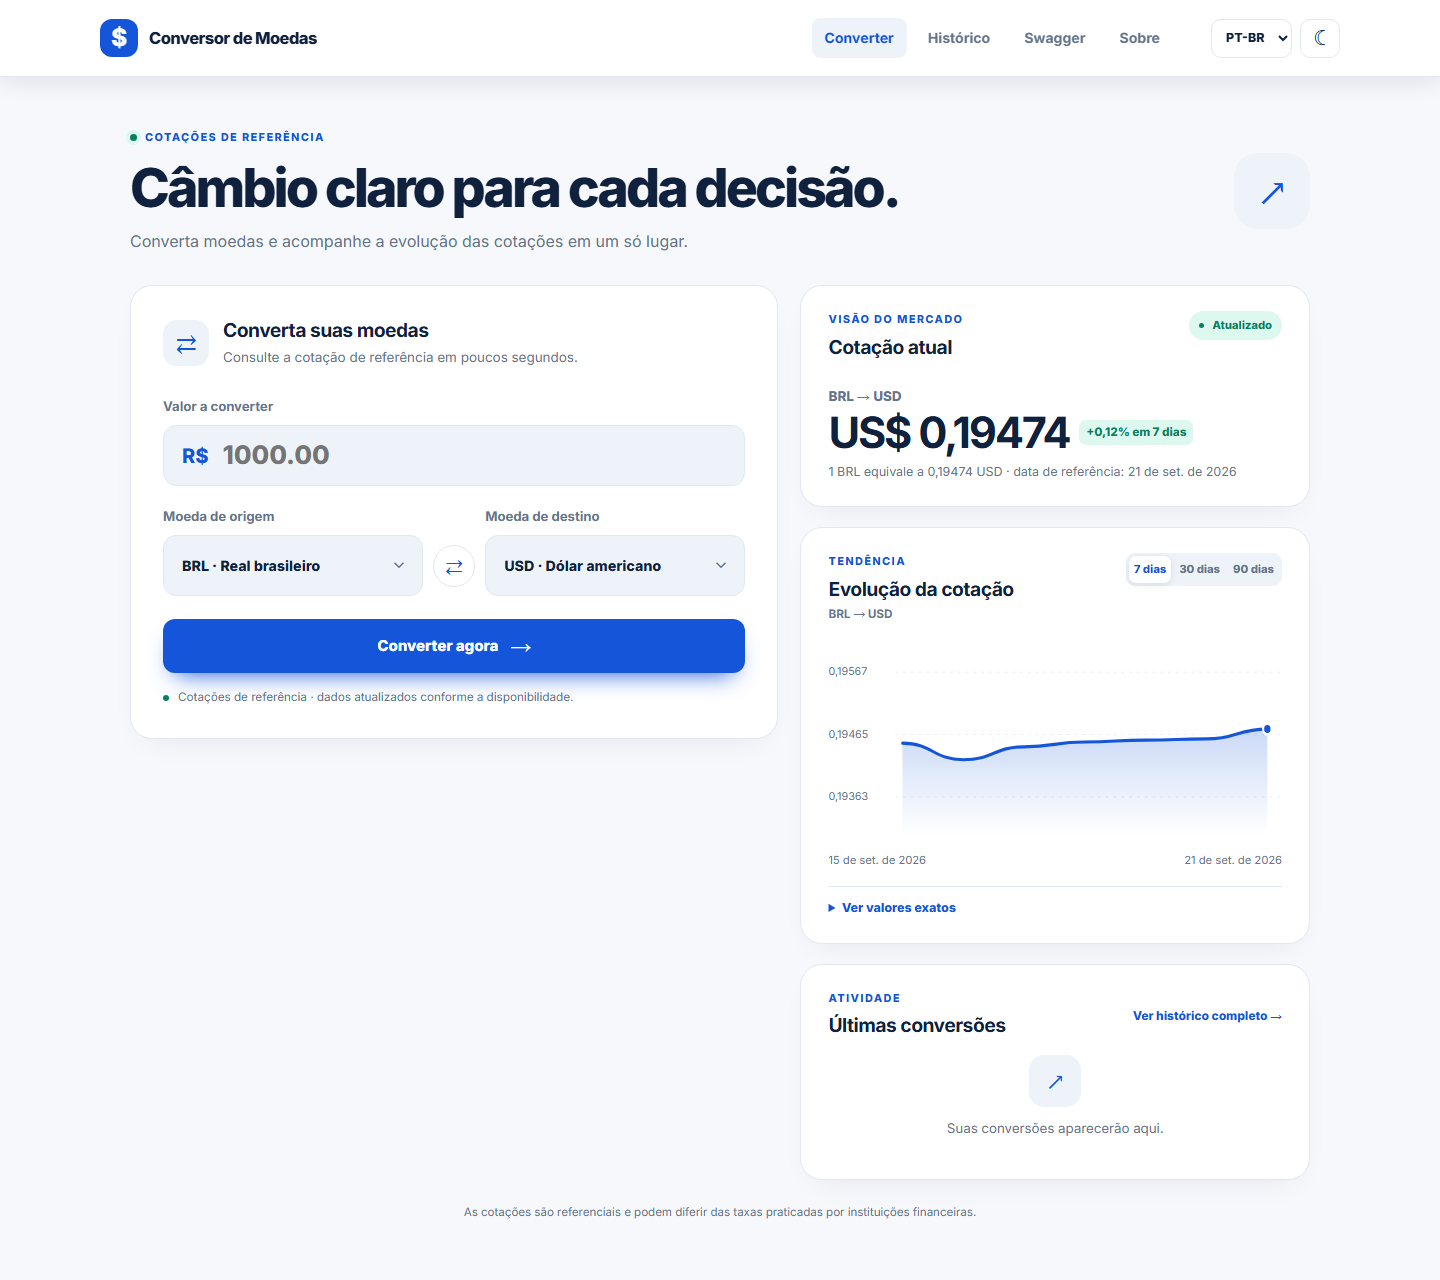
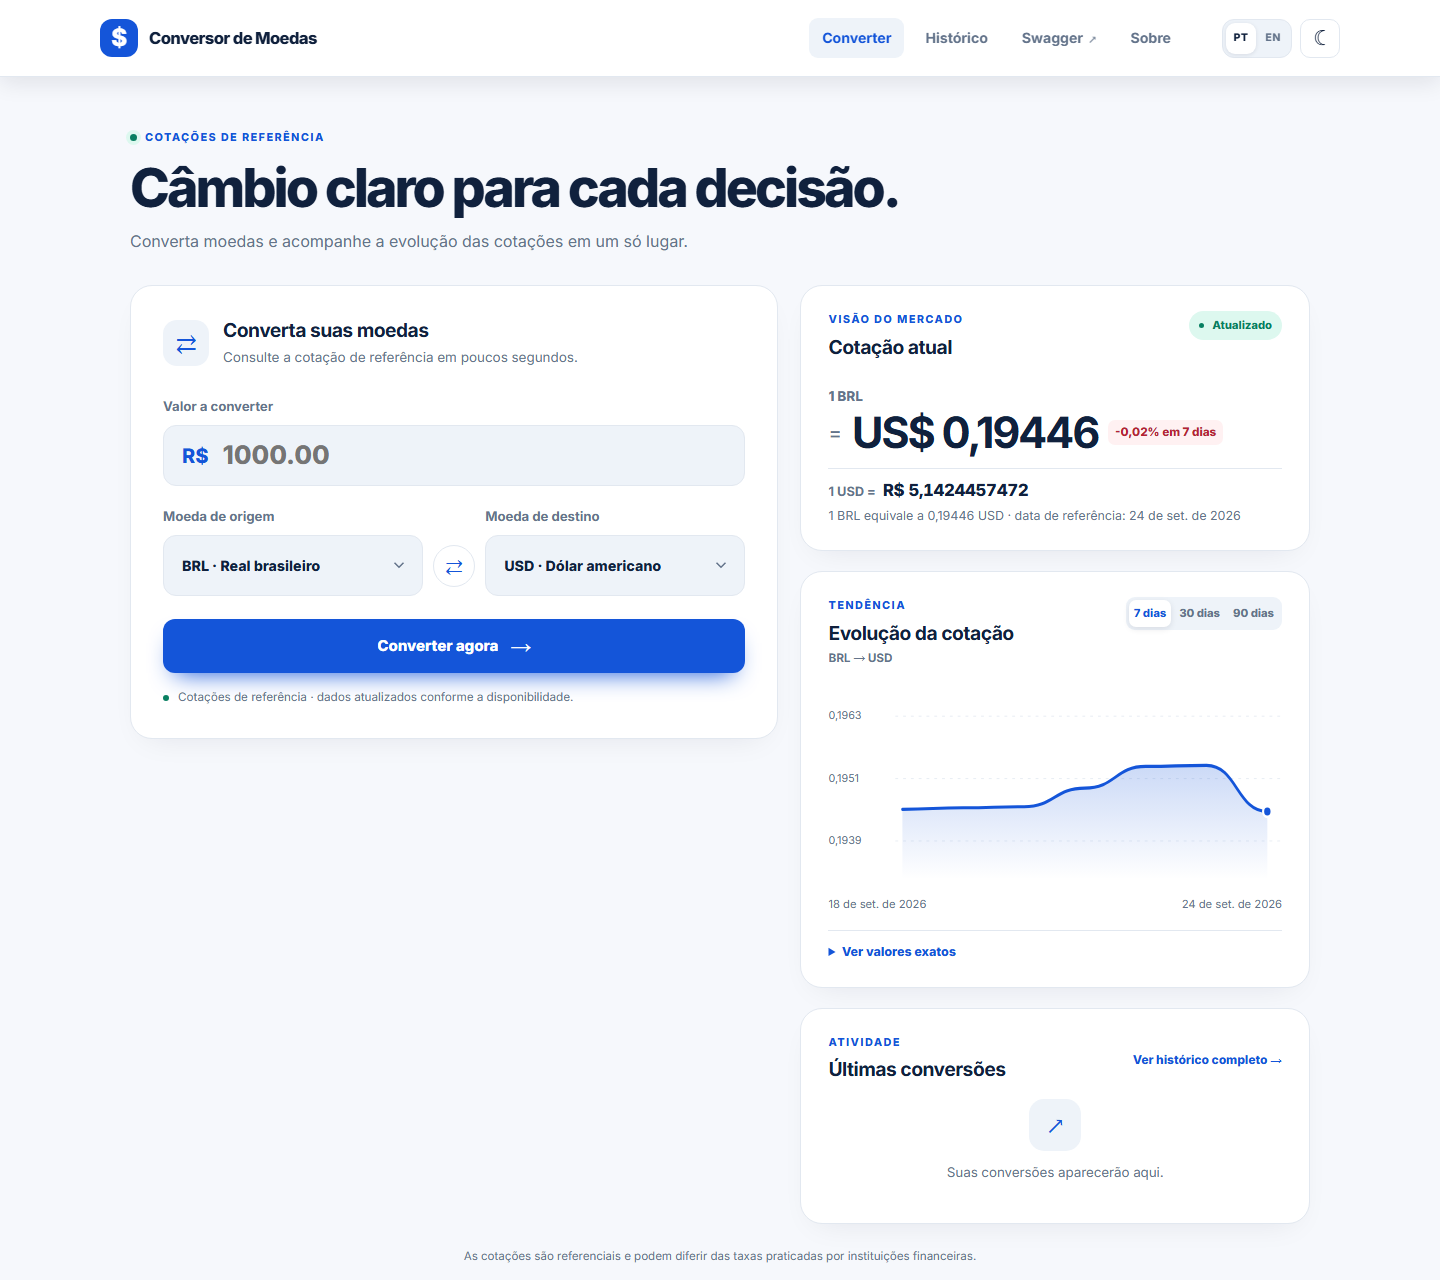
docs: refresh screenshots and about page guidance

diff --git a/README.md b/README.md
@@ -8,7 +8,7 @@ Aplicação web para converter moedas e consultar a evolução das cotações. O
 | --- | --- |
 | ![Dashboard no tema claro](docs/screenshots/tema-claro.png) | ![Dashboard no tema escuro](docs/screenshots/tema-escuro.png) |
 
-Os prints mostram o dashboard em 21/09/2026. As cotações exibidas no site são consultadas durante o uso e podem mudar.
+Capturas feitas em 24/09/2026 com a aplicação local. Os dois temas mostram a mesma cotação de referência consultada nessa data; os valores podem mudar durante o uso.
 
 ### Página Sobre
 
@@ -16,7 +16,7 @@ Os prints mostram o dashboard em 21/09/2026. As cotações exibidas no site são
 | --- | --- |
 | ![Página Sobre no tema claro](docs/screenshots/sobre-claro.png) | ![Página Sobre no tema escuro](docs/screenshots/sobre-escuro.png) |
 
-Os três cards da página Sobre inclinam-se em resposta ao ponteiro e exibem um foco de luz. O efeito é desativado em dispositivos sem ponteiro preciso e quando o sistema solicita movimento reduzido.
+As capturas mostram o card do criador com o ponteiro sobre ele, revelando a inclinação 3D e o foco de luz. Os três cards respondem ao ponteiro; o maior usa um movimento mais suave. O efeito é desativado em dispositivos sem ponteiro preciso e quando o sistema solicita movimento reduzido.
 
 ## O que dá para fazer
 
@@ -44,7 +44,7 @@ No macOS ou Linux, use `./mvnw spring-boot:run`.
 | Sobre | http://localhost:8080/sobre |
 | Swagger | http://localhost:8080/swagger-ui.html |
 
-O servidor se vincula somente a `127.0.0.1` por padrao; mantenha essa configuracao para uso local. O historico usa H2 em memoria e e global nesta demonstracao local. O console H2 fica desativado por padrao. Para habilita-lo durante o desenvolvimento local, defina `H2_CONSOLE_ENABLED=true` antes de iniciar e acesse `http://localhost:8080/h2-console` com JDBC `jdbc:h2:mem:currency_converter`, usuario `sa` e senha vazia. Nao habilite o console fora de um ambiente local isolado.
+O servidor se vincula somente a `127.0.0.1` por padrão; mantenha essa configuração para uso local. O histórico usa H2 em memória e é global nesta demonstração local. O console H2 fica desativado por padrão. Para habilitá-lo durante o desenvolvimento local, defina `H2_CONSOLE_ENABLED=true` antes de iniciar e acesse `http://localhost:8080/h2-console` com JDBC `jdbc:h2:mem:currency_converter`, usuário `sa` e senha vazia. Não habilite o console fora de um ambiente local isolado.
 
 ## API
 
